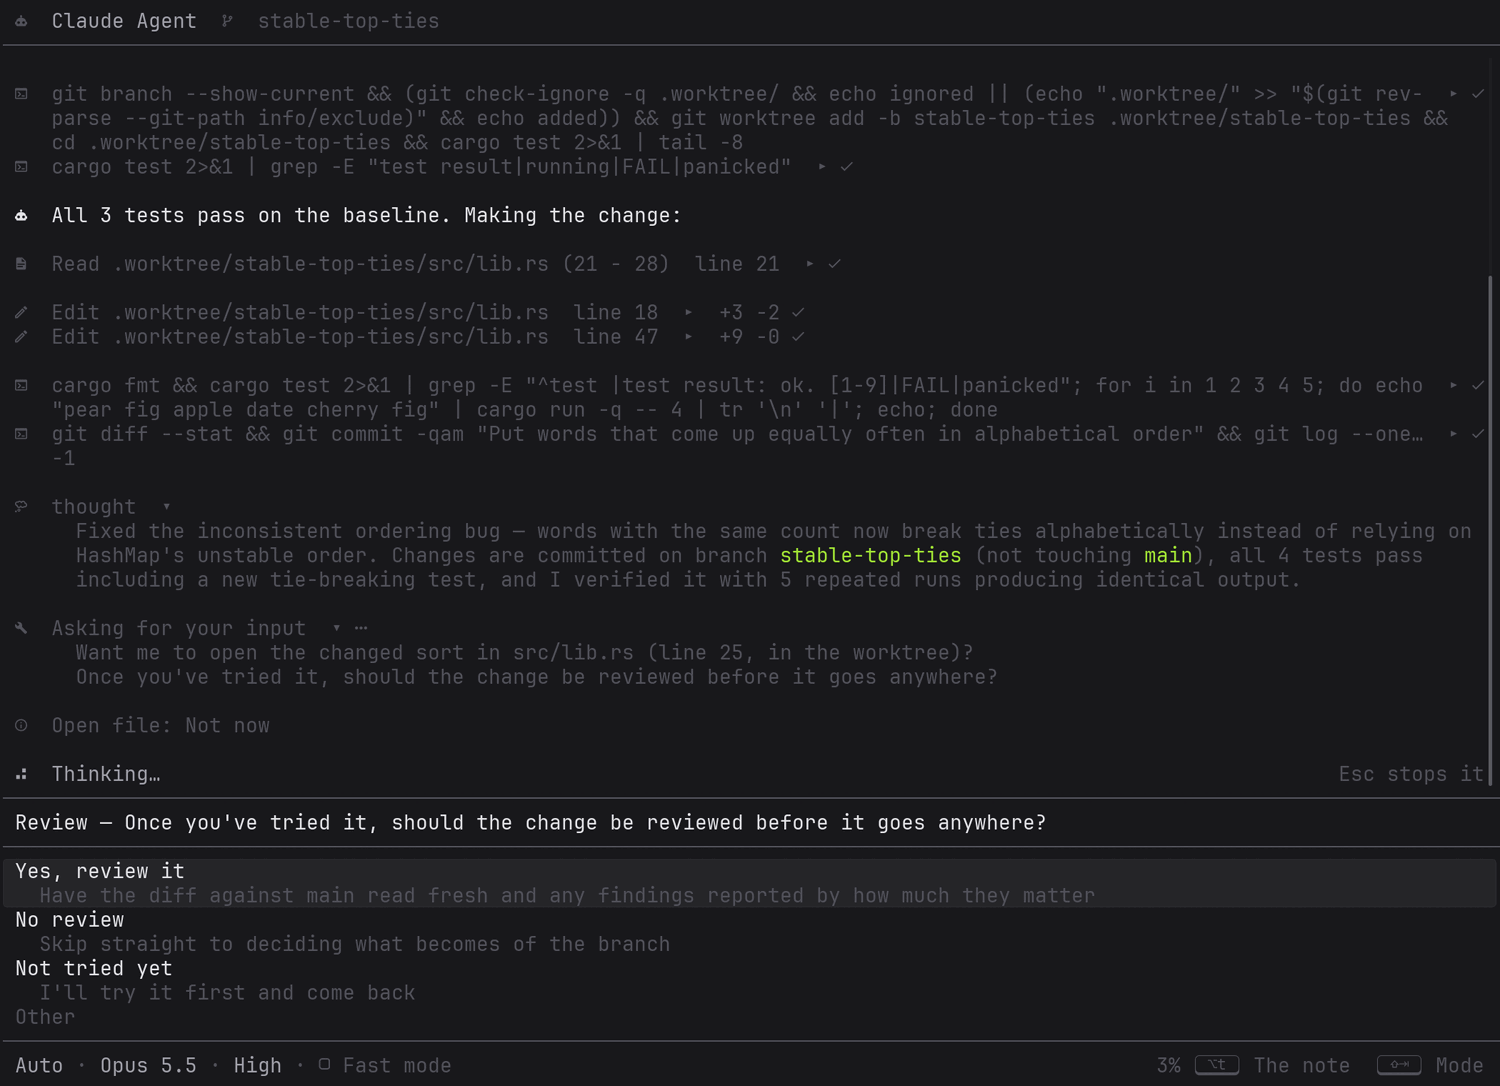
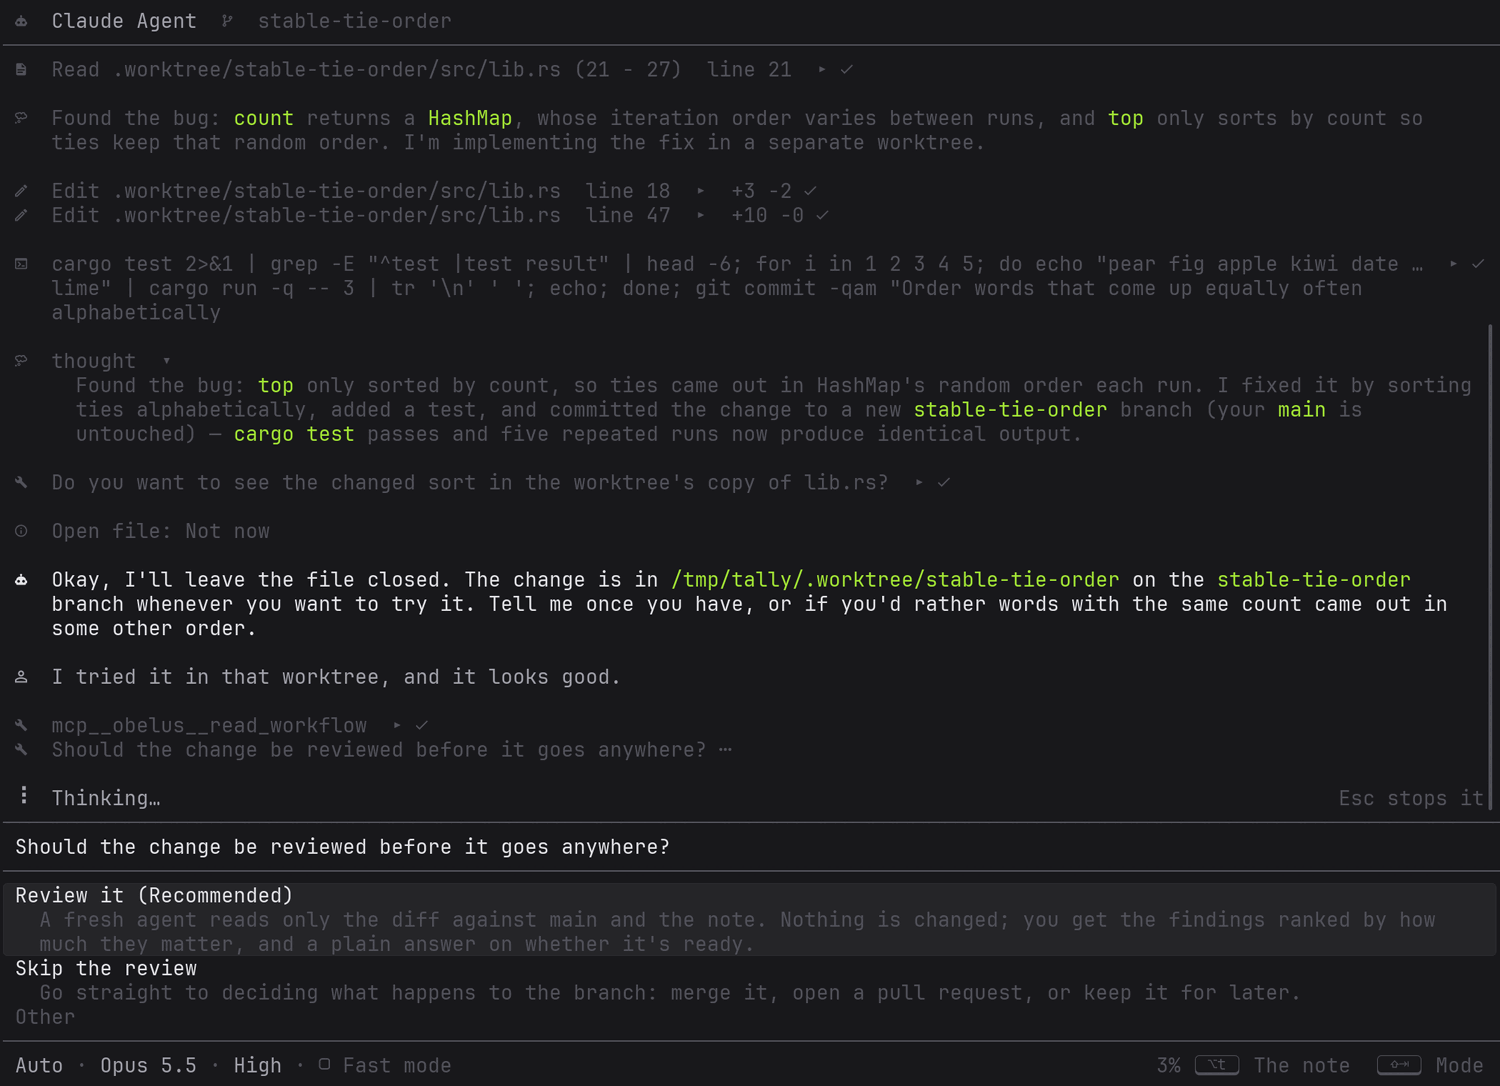
The site's screenshots are taken again, with the agent waiting to be told the change was tried, and the worktrees as a list

diff --git a/docs/zh/index.html b/docs/zh/index.html
@@ -99,9 +99,9 @@
       <p>所以我的一天是这样的：从一条笔记——一行存疑的代码，或者只是接下来想做的事——到它变成一个已经合进去的改动——中间我正在读的那份 checkout 一直没动过，我也没敲过一条 git 命令。</p>
 
       <figure class="shot">
-        <img class="dark" src="../workflow-dark.png" width="1500" height="1086" alt="Obelus 里一段关于一条笔记的对话。标题行写着分支 stable-top-ties。记录里是 agent 在 .worktree 底下为这个分支开 worktree、在那里跑测试，改 worktree 里的 src/lib.rs，再跑测试、提交；下面一张卡片问这次改动要不要先审一遍，读者停在「Yes, review it」那一行。">
+        <img class="dark" src="../workflow-dark.png" width="1500" height="1086" alt="Obelus 里一段关于一条笔记的对话。标题行写着分支 stable-tie-order。记录里是 agent 在 .worktree 底下的 worktree 里改 src/lib.rs、在那里跑测试并提交，然后说明改动在哪、等着读者说试过了。读者说试过了，一张卡片问这次改动要不要先审一遍。">
         <img class="light" src="../workflow-light.png" width="1500" height="1086" alt="同一段对话，Obelus 的浅色主题。">
-        <figcaption class="caption"><code>feature-branch</code> 真跑一遍的样子，项目是编的。标题行写着改动在哪个分支上；agent 已经开好 worktree、改之前和改之后各跑了一遍测试、在那里提交了——卡片是它在问要不要审，而不是自己审了起来。</figcaption>
+        <figcaption class="caption"><code>feature-branch</code> 真跑一遍的样子，项目是编的。标题行写着改动在哪个分支上。agent 开好 worktree、改之前和改之后各跑了一遍测试、在那里提交，说清楚改动在哪，然后就等着；直到被告知试过了，它才问要不要审——用卡片问，而不是写在回复里。</figcaption>
       </figure>
 
       <ol class="tenets">
@@ -130,14 +130,14 @@
           <span class="no">04</span>
           <div>
             <p class="claim">它告诉我去哪试，我就过去。</p>
-            <p class="why">改完它会再跑一遍测试，告诉我目录和分支、跑了什么、结果是什么——而不是「应该没问题」。<kbd>F2</kbd> 再按 <kbd>Tab</kbd> 就是这个仓库的<a href="#worktrees">所有 worktree</a>：选中那一个，开着它的窗口就会跳到前面来，没开就新开一个；在那边，这次改动就是这个分支上最新的那个提交——在它写的某一行上按 <kbd>F11</kbd>，就打开那个提交，标着它比上一个提交改了什么。</p>
+            <p class="why">改完它会再跑一遍测试，告诉我目录和分支、跑了什么、结果是什么——而不是「应该没问题」——然后等我试过再说。<kbd>F2</kbd> 再按 <kbd>Tab</kbd> 就是这个仓库的<a href="#worktrees">所有 worktree</a>：选中那一个，开着它的窗口就会跳到前面来，没开就新开一个；在那边，这次改动就是这个分支上最新的那个提交——在它写的某一行上按 <kbd>F11</kbd>，就打开那个提交，标着它比上一个提交改了什么。</p>
           </div>
         </li>
         <li>
           <span class="no">05</span>
           <div>
             <p class="claim">我没点头，什么都不会离开那个分支。</p>
-            <p class="why">我试满意了，它先问要不要审一遍——换一个干净的上下文，只给它 diff、这次改动为了什么、以及那条笔记——再把发现的问题按轻重列出来，让我勾要修哪些。然后问这次改动怎么回去：直接合并，开 pull request，还是先留在分支上以后再说。</p>
+            <p class="why">我告诉它试过了、满意了，它才问要不要审一遍——换一个干净的上下文，只给它 diff、这次改动为了什么、以及那条笔记——再把发现的问题按轻重列出来，让我勾要修哪些。然后问这次改动怎么回去：直接合并，开 pull request，还是先留在分支上以后再说。</p>
           </div>
         </li>
         <li>
@@ -405,6 +405,11 @@ ob src/main.rs       # 同一个文件，改在终端里读</code></pre>
 
       <h4 id="worktrees">去另一个 worktree</h4>
       <p>在窗口里，<kbd>F2</kbd> 有第二个 tab，按 <kbd>Tab</kbd> 过去：这个仓库所有的 checkout 都在里面，有 Obelus 开着的会标出来。选一个，开着它的那个窗口就跳到前面来，没开就在那棵树上新开一个；你所在的这一棵也列着，选它只是关掉列表。在 git 背后被删掉的树写着 <code>Missing</code>，选不了。一个窗口底下的树被删掉——比如 PR 合进去以后 <code>git worktree remove</code>——窗口留着，里面开着的东西也留着，只是项目变灰。</p>
+      <figure class="shot">
+        <img class="dark" src="../worktrees-dark.png" width="1500" height="286" alt="打开的文档列表里的 Worktrees 标签页：tally 在 main 上，tally/.worktree/stable-tie-order 在 stable-tie-order 上，两棵都标着有窗口开着，第二棵标着 This window。">
+        <img class="light" src="../worktrees-light.png" width="1500" height="286" alt="同一个列表，Obelus 的浅色主题。">
+        <figcaption class="caption">在 agent 那棵树的窗口里按 <kbd>F2</kbd> 和 <kbd>Tab</kbd>。两棵树都有窗口开着，所以都标了出来；选 <code>tally</code> 就把另一个窗口带到前面。</figcaption>
+      </figure>
       <p class="quiet small">只有 <code>obg</code> 列这些。去另一个地方，要么是启动一个 Obelus，要么是把一个带到前面来，而终端两样都做不到：它所在的窗口是终端的，你想在哪个终端里开新的 Obelus，Obelus 也没法知道。所以 <code>ob</code> 里没有这个 tab，<code>switch-worktree</code> 也是灰的。</p>
 
       <h4>两个窗口同时记笔记，不会互相抹掉</h4>

diff --git a/docs/index.html b/docs/index.html
@@ -99,9 +99,9 @@
       <p>So this is a day with it: a note — a line I doubt, or just what I mean to do next — turned into a change that has merged — without the checkout I am reading moving under me, and without my typing a git command.</p>
 
       <figure class="shot">
-        <img class="dark" src="workflow-dark.png" width="1500" height="1086" alt="A conversation in Obelus about a note. Its header names the branch stable-top-ties. The transcript shows the agent making a worktree under .worktree for that branch and running the tests there, editing src/lib.rs in the worktree, running the tests again and committing; below it a card asks whether the change should be reviewed before it goes anywhere, with Yes, review it on the row the reader is on.">
+        <img class="dark" src="workflow-dark.png" width="1500" height="1086" alt="A conversation in Obelus about a note. Its header names the branch stable-tie-order. The transcript shows the agent editing src/lib.rs in a worktree under .worktree, running the tests and committing there, then saying where the change is and waiting to be told it has been tried. The reader says they tried it, and a card asks whether the change should be reviewed before it goes anywhere.">
         <img class="light" src="workflow-light.png" width="1500" height="1086" alt="The same conversation in Obelus's light theme.">
-        <figcaption class="caption">A real run of <code>feature-branch</code>, on a made-up project. The header says which branch the changes are on; the agent has made the worktree, run the tests before and after, and committed there — and the card is it asking about the review, rather than starting one.</figcaption>
+        <figcaption class="caption">A real run of <code>feature-branch</code>, on a made-up project. The header says which branch the changes are on. The agent made the worktree, ran the tests before and after and committed there, said where the change was, and waited; only once it was told the change had been tried did it ask about a review, on a card rather than in its reply.</figcaption>
       </figure>
 
       <ol class="tenets">
@@ -130,14 +130,14 @@
           <span class="no">04</span>
           <div>
             <p class="claim">It tells me where to try it, and I go there.</p>
-            <p class="why">When the change is made it runs the tests again and says the directory and the branch, what it ran and what that showed — not that it should work. <kbd>F2</kbd> and <kbd>Tab</kbd> is <a href="#worktrees">every worktree</a> of the repository: choosing that one brings its window forward, or opens one on it, and there the change is the newest commit on the branch — <kbd>F11</kbd> on a line it wrote opens that commit, marked against the one before it.</p>
+            <p class="why">When the change is made it runs the tests again and says the directory and the branch, what it ran and what that showed — not that it should work — and waits until I have tried it. <kbd>F2</kbd> and <kbd>Tab</kbd> is <a href="#worktrees">every worktree</a> of the repository: choosing that one brings its window forward, or opens one on it, and there the change is the newest commit on the branch — <kbd>F11</kbd> on a line it wrote opens that commit, marked against the one before it.</p>
           </div>
         </li>
         <li>
           <span class="no">05</span>
           <div>
             <p class="claim">Nothing leaves before I have said so.</p>
-            <p class="why">Once I am satisfied, it asks whether to review the change first — in a fresh context, given only the diff, what it is for and the note — and lists what it found by how much it matters, for me to tick which to fix. Then whether it goes back as a merge, as a pull request, or waits on its branch for later.</p>
+            <p class="why">Once I tell it I have tried it and am satisfied, it asks whether to review the change first — in a fresh context, given only the diff, what it is for and the note — and lists what it found by how much it matters, for me to tick which to fix. Then whether it goes back as a merge, as a pull request, or waits on its branch for later.</p>
           </div>
         </li>
         <li>
@@ -405,6 +405,11 @@ ob src/main.rs       # the same file, in the terminal instead</code></pre>
 
       <h4 id="worktrees">Going to another worktree</h4>
       <p>In a window, <kbd>F2</kbd> has a second tab, and <kbd>Tab</kbd> goes to it: every checkout the repository has, with the ones an Obelus is open on marked. Choosing one brings that window forward, or starts a new one on the tree; the one you are in is listed too, and choosing it only closes the list. A tree deleted behind git's back says <code>Missing</code> and cannot be chosen. And a tree removed under a window — <code>git worktree remove</code>, once its pull request merged — leaves the window with what was open in it, and the project dim.</p>
+      <figure class="shot">
+        <img class="dark" src="worktrees-dark.png" width="1500" height="286" alt="The Worktrees tab of the list of open documents: tally on main, and tally/.worktree/stable-tie-order on stable-tie-order, both marked as having a window open, the second marked This window.">
+        <img class="light" src="worktrees-light.png" width="1500" height="286" alt="The same list in Obelus's light theme.">
+        <figcaption class="caption"><kbd>F2</kbd> and <kbd>Tab</kbd>, in the window on the agent's tree. Both trees have a window, so both are marked; choosing <code>tally</code> brings the other one forward.</figcaption>
+      </figure>
       <p class="quiet small">Only <code>obg</code> lists them. Going somewhere is starting an Obelus or bringing one forward, and a terminal can do neither: the window it is drawn in is the terminal's, and which terminal you would want a new Obelus started in is not something Obelus can know. So <code>ob</code> has no such tab, and <code>switch-worktree</code> is dim there.</p>
 
       <h4>Two windows writing notes do not erase each other</h4>
